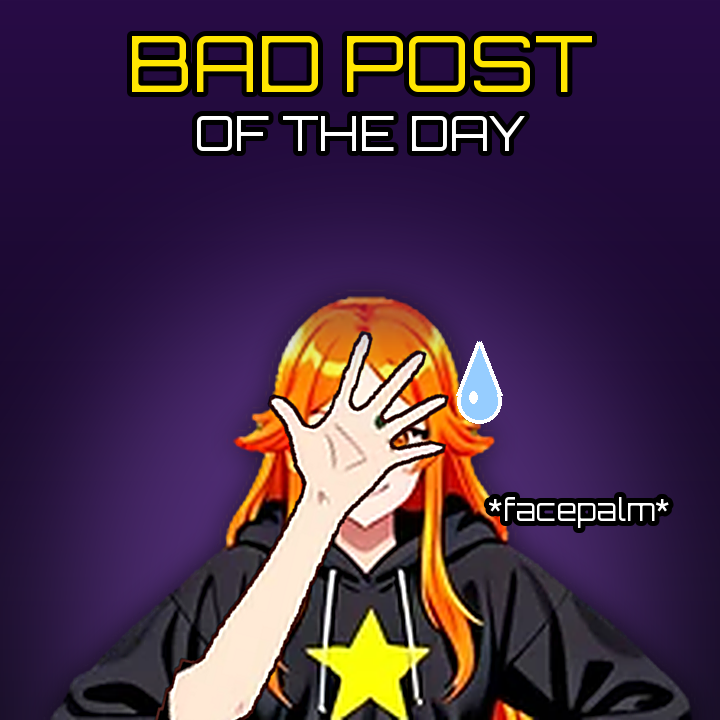
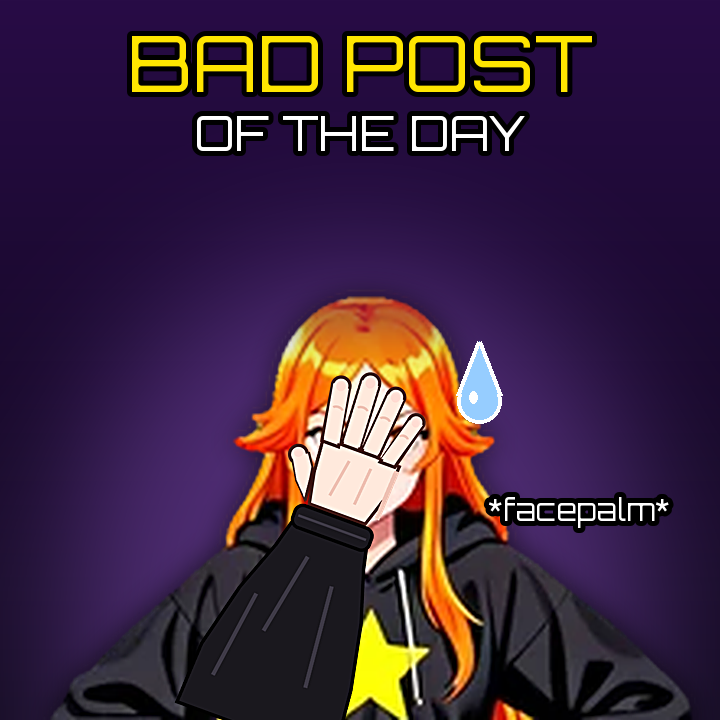
Bad Post facepalm: the back of her right hand, out of the hoodie sleeve, over both eyes (was the waving palm on a bare arm as long as her torso)

Changed region(s): [[0.2139, 0.4583, 0.6417, 1.0]]

diff --git a/scripts/make_badpost_facepalm.py b/scripts/make_badpost_facepalm.py
@@ -2,9 +2,9 @@
 """Build static/mascot/badpost-facepalm.png -- PosterChan facepalming, for the Bad Post of the Day bot.
 
 Derived from the shipped mascot frames, never drawn from scratch, so it is the same character as the
-desktop buddy: the body is dance-5 (hands on hips, the disappointed stance), the hand is dance-2's raised
-open palm, laid over her eyes. The crop stops above the hips, so the two hip hands leave the frame and
-the facepalm arm is the only one that reaches the face.
+desktop buddy: the body is dance-5 (hands on hips, the disappointed stance), cropped above the hips so the hip
+hands leave the frame; her right hand -- drawn in her line-art colours, back of the hand to the viewer, out of
+the hoodie sleeve -- covers her eyes.
 
 Run once after changing the mascot art (needs Pillow with FreeType, i.e. the app's venv):
     venv-unified/bin/python scripts/make_badpost_facepalm.py
@@ -12,7 +12,7 @@ Run once after changing the mascot art (needs Pillow with FreeType, i.e. the app
 import os
 
 import numpy as np
-from PIL import Image, ImageDraw, ImageFilter, ImageFont, ImageOps
+from PIL import Image, ImageDraw, ImageFilter, ImageFont
 
 ROOT = os.path.dirname(os.path.dirname(os.path.abspath(__file__)))
 MASCOT = os.path.join(ROOT, "static", "mascot")
@@ -23,53 +23,85 @@ YELLOW = (255, 230, 0, 255)          # the star on her hoodie
 
 BUST = (105, 52, 315, 207)            # dance-5: hair top to mid-hoodie (the hip hands are out of frame)
 SCALE = 720 * 0.95 / (BUST[2] - BUST[0])
-PALM_AT = (212, 117)                   # dance-5 coordinates: both eyes behind the hand
-ARM_TILT = -14                         # degrees; the elbow goes out to her right, off the bottom edge
-HAND = 1.08                            # the hand a little larger than the waving one, so it covers both eyes
+EYES = (213, 116)                      # dance-5 coordinates: between her eyes
 INK = (70, 32, 28, 255)                # the line-art brown of her outlines
+SKIN = (255, 233, 220, 255)            # sampled from her face
+SKIN_SHADE = (240, 196, 182, 255)
+SLEEVE = (26, 24, 30, 255)             # the hoodie
+SLEEVE_HI = (58, 54, 66, 255)
+SS = 4                                 # the hand is drawn at 4x and scaled down: smooth lines, no staircase
 
 
 def _up(im: Image.Image, k: float) -> Image.Image:
     return im.resize((round(im.width * k), round(im.height * k)), Image.LANCZOS)
 
 
-def _arm() -> Image.Image:
-    """dance-2's waving arm, cut out along the skin (no hair, no hoodie), MIRRORED -- a palm-out right
-    hand mirrored is the BACK of her right hand, which is what a facepalm shows the viewer."""
-    src = Image.open(os.path.join(MASCOT, "dance", "dance-2.webp")).convert("RGBA")
-    cut = Image.new("L", src.size, 0)
-    ImageDraw.Draw(cut).polygon([(86, 0), (150, 0), (150, 40), (140, 70), (146, 100), (150, 125),
-                                 (122, 128), (106, 104), (98, 62), (86, 40)], fill=255)
-    arm = Image.new("RGBA", src.size, (0, 0, 0, 0))
-    arm.paste(src, (0, 0), Image.composite(src.split()[3], cut, cut))
-    return ImageOps.mirror(arm.crop((80, 0, 165, 150)))
+def _hand(unit: float) -> Image.Image:
+    """Her RIGHT hand seen from the BACK, the way a facepalm looks to the person watching: fingers together over her
+    eyes, thumb on the outside, the wrist going into the hoodie's cuff and the sleeve running off the bottom of the
+    frame. Drawn (no frame of the mascot shows a hand like this) in her own line-art colours; `unit` = one dance-5
+    pixel at the final scale, so the hand is sized to HER face (the previous image reused the waving arm: a bare arm,
+    palm to the viewer -- "the hand is backwards and longer than normal", 2026-10-16).
+    Local frame: wrist at (0, 0), fingers pointing up (-y); rotated by the caller."""
+    u = unit * SS
+    W, H = int(160 * u), int(160 * u)
+    im = Image.new("RGBA", (W, H), (0, 0, 0, 0))
+    d = ImageDraw.Draw(im)
+    ox, oy = W / 2, H * 0.40                    # the wrist
+    P = lambda x, y: (ox + x * u, oy + y * u)  # noqa: E731
+    lw = max(2, round(1.0 * u))
+    # the sleeve: a loose hoodie sleeve -- wide, rounded, a fold or two -- from the cuff down out of the frame
+    sleeve = [P(-12, 3), P(-15, 14), P(-21, 30), P(-26, 50), P(-27, 70), P(25, 70), P(23, 48), P(19, 28), P(14, 12), P(12, 3)]
+    d.polygon(sleeve, fill=SLEEVE, outline=(0, 0, 0, 255), width=lw)
+    for x0, y0, x1, y1 in ((-4, 14, -9, 40), (6, 20, 9, 52), (-15, 30, -19, 58)):
+        d.line([P(x0, y0), P(x1, y1)], fill=SLEEVE_HI, width=round(1.2 * u))
+    d.rounded_rectangle([P(-13, -1), P(13, 7)], radius=3 * u, fill=SLEEVE, outline=(0, 0, 0, 255), width=lw)
+    d.line([P(-11, 3), P(11, 3)], fill=SLEEVE_HI, width=round(.8 * u))
+    # the back of the hand
+    back = [P(-9.5, -1), P(9.5, -1), P(13, -12), P(13.5, -22), P(-12.5, -23), P(-11.5, -11)]
+    d.polygon(back, fill=SKIN, outline=INK, width=lw)
+    d.line([P(-4, -6), P(-2, -18)], fill=SKIN_SHADE, width=round(.9 * u))          # a tendon or two
+    d.line([P(4, -6), P(5, -18)], fill=SKIN_SHADE, width=round(.9 * u))
+    # four fingers side by side (index on the thumb side = the viewer's left), together, gently fanned
+    fingers = [(-9.3, -22, 6.4, 20, -3), (-3.1, -23, 6.6, 23, -1), (3.2, -23, 6.4, 21.5, 1.5), (9.2, -22, 5.8, 17, 4)]
+    for cx, top, w, ln, lean in fingers:
+        tx = cx + lean
+        tip = top - ln
+        d.polygon([P(cx - w / 2, top + 1.5), P(cx + w / 2, top + 1.5), P(tx + w / 2, tip + w / 2), P(tx - w / 2, tip + w / 2)],
+                  fill=SKIN, outline=INK, width=lw)
+        d.ellipse([P(tx - w / 2, tip), P(tx + w / 2, tip + w)], fill=SKIN, outline=INK, width=lw)
+        d.polygon([P(cx - w / 2 + .7, top), P(cx + w / 2 - .7, top), P(tx + w / 2 - .7, tip + w / 2),
+                   P(tx - w / 2 + .7, tip + w / 2)], fill=SKIN)                                         # no seam at the tip
+        d.ellipse([P(tx - w * .22, tip + w * .25), P(tx + w * .22, tip + w * .75)], fill=(255, 220, 210, 255))   # the nail
+        k = top - ln * .48
+        d.arc([P(cx + lean * .5 - w * .3, k - 1.2), P(cx + lean * .5 + w * .3, k + 1.2)], 200, 340, fill=SKIN_SHADE,
+              width=round(.8 * u))                                                                  # the middle joint
+    # the thumb, along the outer edge toward her temple
+    th = [P(-10.5, -1.5), P(-15.5, -6.5), P(-19.6, -13.5), P(-14.4, -16.5), P(-11.8, -12.5)]
+    d.polygon(th, fill=SKIN, outline=INK, width=lw)
+    d.ellipse([P(-20.6, -17.8), P(-14.2, -11.4)], fill=SKIN, outline=INK, width=lw)               # the thumb tip, rounded
+    d.polygon([P(-10.8, -2.4), P(-15.2, -7), P(-19, -13.6), P(-14.8, -15.8), P(-12.4, -12.4)], fill=SKIN)  # no seam
+    d.ellipse([P(-19, -16.6), P(-16.2, -13.8)], fill=(255, 220, 210, 255))                       # its nail
+    d.line([P(-11.6, -12.4), P(-10.6, -2)], fill=INK, width=lw)
+    d.line([P(12, -4), P(12.8, -20)], fill=SKIN_SHADE, width=round(1.6 * u))      # shade on the far edge
+    return im
 
 
 def figure() -> Image.Image:
-    """Composed at the FINAL scale: the art is upscaled first and the arm's edge and outline are cut
-    afterwards, so they are smooth lines rather than a 3x-magnified pixel staircase (the old image's
-    pale, jagged halo). The forearm runs off the bottom of the frame, so there is no seam where an arm
-    stops in mid-air."""
+    """dance-5 (hands on hips, the disappointed stance), cropped above the hips, with her right hand over her eyes."""
     body = _up(Image.open(os.path.join(MASCOT, "dance", "dance-5.webp")).convert("RGBA").crop(BUST), SCALE)
-    k = SCALE * HAND
-    arm = _up(_arm(), k)
-    alpha = arm.split()[3].filter(ImageFilter.GaussianBlur(1.2)).point(lambda v: 255 if v > 150 else 0)
-    alpha = alpha.filter(ImageFilter.MinFilter(3)).filter(ImageFilter.GaussianBlur(0.8))
-    ring = alpha.filter(ImageFilter.MaxFilter(7))
-    inked = Image.new("RGBA", arm.size, (0, 0, 0, 0))
-    inked.paste(Image.new("RGBA", arm.size, INK), (0, 0), ring)
-    arm.putalpha(alpha)
-    inked.alpha_composite(arm)
-    palm = ((84 - (112 - 80)) * k, 30 * k)          # palm centre of the mirrored crop, scaled
-    pad = max(inked.size) * 2
-    big = Image.new("RGBA", (pad, pad), (0, 0, 0, 0))
-    big.alpha_composite(inked, (round(pad / 2 - palm[0]), round(pad / 2 - palm[1])))
-    big = big.rotate(ARM_TILT, resample=Image.BICUBIC, center=(pad / 2, pad / 2))
-    at = ((PALM_AT[0] - BUST[0]) * SCALE, (PALM_AT[1] - BUST[1]) * SCALE)
+    hand = _hand(SCALE)
+    hand = hand.rotate(-20, resample=Image.BICUBIC, center=(hand.width / 2, hand.height * 0.40), expand=False)
+    hand = hand.resize((hand.width // SS, hand.height // SS), Image.LANCZOS)
+    # the fingers' middle lands on her eyes: in the hand's frame that is ~26 dance-5 px above the wrist, tilted
+    import math
+    a = math.radians(20)
+    tip_dx, tip_dy = 31 * math.sin(a) * SCALE, -31 * math.cos(a) * SCALE
+    eyes = ((EYES[0] - BUST[0]) * SCALE, (EYES[1] - BUST[1]) * SCALE)
+    wrist = (eyes[0] - tip_dx, eyes[1] - tip_dy)
     out = body.copy()
-    out.alpha_composite(big.crop((round(pad / 2 - at[0]), round(pad / 2 - at[1]),
-                                  round(pad / 2 - at[0]) + out.width, round(pad / 2 - at[1]) + out.height)))
-    return out.filter(ImageFilter.UnsharpMask(radius=2, percent=90, threshold=2))
+    out.alpha_composite(hand, (round(wrist[0] - hand.width / 2), round(wrist[1] - hand.height * 0.40)))
+    return out.filter(ImageFilter.UnsharpMask(radius=2, percent=60, threshold=2))
 
 
 def font(size: int):

diff --git a/tests/test_badpost_facepalm_art.py b/tests/test_badpost_facepalm_art.py
@@ -1,12 +1,12 @@
-"""The Bad Post of the Day facepalm: one connected arm, and the shipped PNG is what the script builds.
+"""The Bad Post of the Day facepalm: a hand of normal size, BACK to the viewer, over BOTH eyes, out of her sleeve --
+and the shipped PNG is what the script builds.
 
-Asked for 2026-10-14: "improve the face palm graphic". The old picture pasted dance-2's waving palm over her
-eyes with its forearm CUT OFF halfway down the hoodie -- an arm that ends in mid-air -- with a pale, jagged
-halo from cutting the art out at its native size and then magnifying it 3x. The hand is now the mirrored
-arm (the back of her right hand), and its forearm runs off the bottom edge of the frame.
+History: the first picture pasted dance-2's waving palm over her eyes with its forearm cut off in mid-air; the
+second ran that bare arm off the bottom edge -- "the hand is backwards and longer than normal" (2026-10-16): it was
+the PALM (the waving arm mirrored) and a bare forearm the length of her torso, though she wears a long-sleeved
+hoodie. The hand is now drawn: back of the right hand, thumb on the outside, the wrist in the hoodie cuff.
 
-Measured on the picture people actually see: the skin under her palm is followed, pixel to pixel, and must
-leave the frame at the bottom on her right side. The old image's arm stopped ~190 px above the edge.
+Measured on the picture people actually see.
 """
 import importlib.util
 import os
@@ -27,35 +27,48 @@ def _script():
     return mod
 
 
-def _palm_xy(mod):
+def _at(mod, dx, dy):
+    """dance-5 coordinates -> pixel in the shipped picture."""
     fig_w = round((mod.BUST[2] - mod.BUST[0]) * mod.SCALE)
     fig_h = round((mod.BUST[3] - mod.BUST[1]) * mod.SCALE)
     x0, y0 = (mod.SIZE - fig_w) // 2, mod.SIZE - fig_h
-    return (round(x0 + (mod.PALM_AT[0] - mod.BUST[0]) * mod.SCALE),
-            round(y0 + (mod.PALM_AT[1] - mod.BUST[1]) * mod.SCALE))
+    return round(x0 + (dx - mod.BUST[0]) * mod.SCALE), round(y0 + (dy - mod.BUST[1]) * mod.SCALE)
 
 
-def test_the_hand_over_her_eyes_belongs_to_an_arm_that_leaves_the_frame():
+def _skin(px):
+    r, g, b = px[..., 0], px[..., 1], px[..., 2]
+    return (r > 200) & (g > 165) & (b > 135) & (r - b > 22) & (r - b < 110)   # warm: not the white caption
+
+
+def test_one_normal_sized_hand_covers_both_eyes_and_comes_out_of_her_sleeve():
     mod = _script()
     px = np.asarray(Image.open(PNG).convert("RGB")).astype(int)
-    r, g, b = px[..., 0], px[..., 1], px[..., 2]
-    skin = (r > 200) & (g > 165) & (b > 135) & (r - b > 22) & (r - b < 110)   # warm: not the white caption
-    labels, _ = ndimage.label(skin)
-    x, y = _palm_xy(mod)
-    # The palm centre itself may fall on a knuckle line; take the skin component nearest to it.
-    win = labels[y - 12:y + 13, x - 12:x + 13]
-    ids = [v for v in np.unique(win) if v]
-    assert ids, ("no skin under the palm -- the hand is not over her eyes", (x, y))
-    arm = max(ids, key=lambda v: int((labels == v).sum()))
-    comp = labels == arm
-    # Her right forearm leaves the frame on HER right (the viewer's left), well clear of her neck: the skin
-    # under the palm is otherwise joined to the bottom edge only down her neckline, which is what the old
-    # picture's cut-off arm amounted to.
-    bottom = np.where(comp[mod.SIZE - 20:].any(axis=0))[0]
-    assert len(bottom) and bottom.min() < x - 80, ("the hand over her eyes is not joined to an arm leaving the "
-                                                   "frame -- a forearm cut off in mid-air", bottom[:5].tolist())
-    rows = np.where(comp.any(axis=1))[0]
-    assert rows.min() < y, "the skin found is not the hand over her face"
+    labels, _ = ndimage.label(_skin(px))
+    eyes = getattr(mod, "EYES", None) or mod.PALM_AT
+    hand = np.zeros(labels.shape, dtype=bool)
+    for dx in (-7, 7):                                     # her two eyes, ~7 dance-5 px either side of centre
+        x, y = _at(mod, eyes[0] + dx, eyes[1])
+        win = labels[y - 6:y + 7, x - 6:x + 7]
+        ids = [v for v in np.unique(win) if v]
+        assert ids, ("an eye is not covered by the hand", dx, (x, y))
+        for v in ids:                                      # fingers and the back are outlined apart: their union
+            hand |= labels == v
+    rows, cols = np.where(hand.any(axis=1))[0], np.where(hand.any(axis=0))[0]
+    face = 30 * mod.SCALE                                  # her face is ~30 dance-5 px tall
+    assert rows.max() - rows.min() < 1.9 * face, ("the hand is far longer than her face: a bare arm, not a hand",
+                                                  rows.max() - rows.min(), face)
+    # below the hand: the dark sleeve, connected to the bottom edge of the picture
+    dark = px.sum(axis=2) < 150
+    dlab, _ = ndimage.label(dark)
+    wrist_y = rows.max()
+    cx = int(np.mean(np.where(hand[wrist_y - 3])[0]))
+    below = [v for v in np.unique(dlab[wrist_y + 4:wrist_y + 20, cx - 12:cx + 12]) if v]
+    assert below, "nothing dark under the wrist: the hand is not in her sleeve"
+    assert any(dlab[mod.SIZE - 1][dlab[mod.SIZE - 1] == v].size for v in below), "the sleeve does not leave the frame"
+    # the BACK of her right hand: the thumb sits on the viewer's left, below the fingertips
+    left = cols.min()
+    assert hand[:, left].any() and np.where(hand[:, left])[0].mean() > rows.min() + 0.25 * (rows.max() - rows.min()), \
+        "the thumb is not on the outside (viewer's left): the hand is backwards"
 
 
 def test_the_shipped_png_is_what_the_script_builds(tmp_path, monkeypatch):
